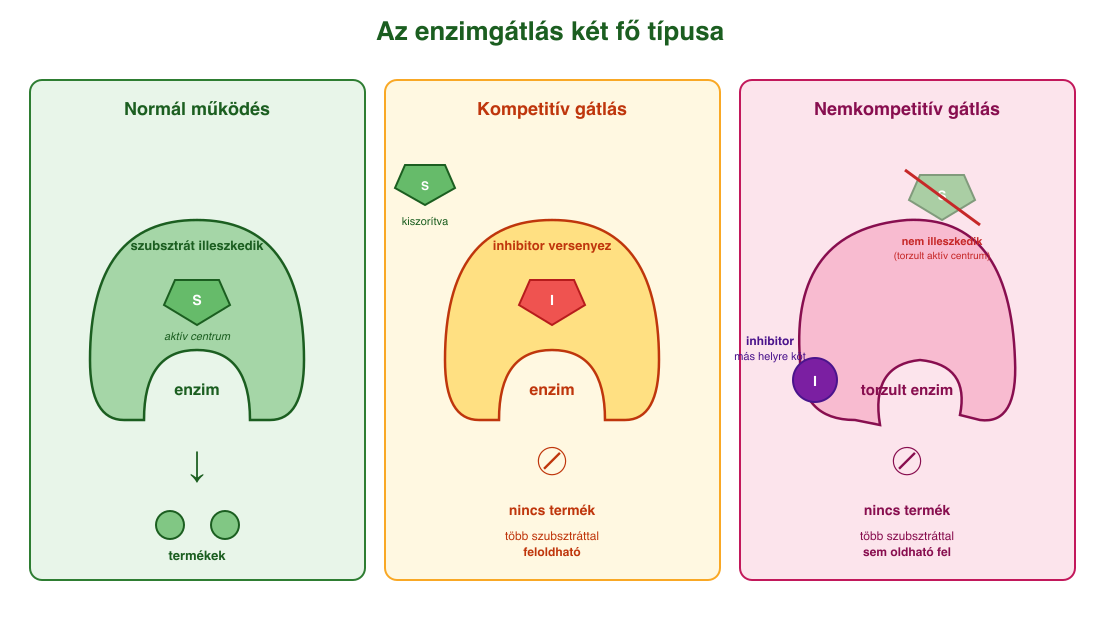
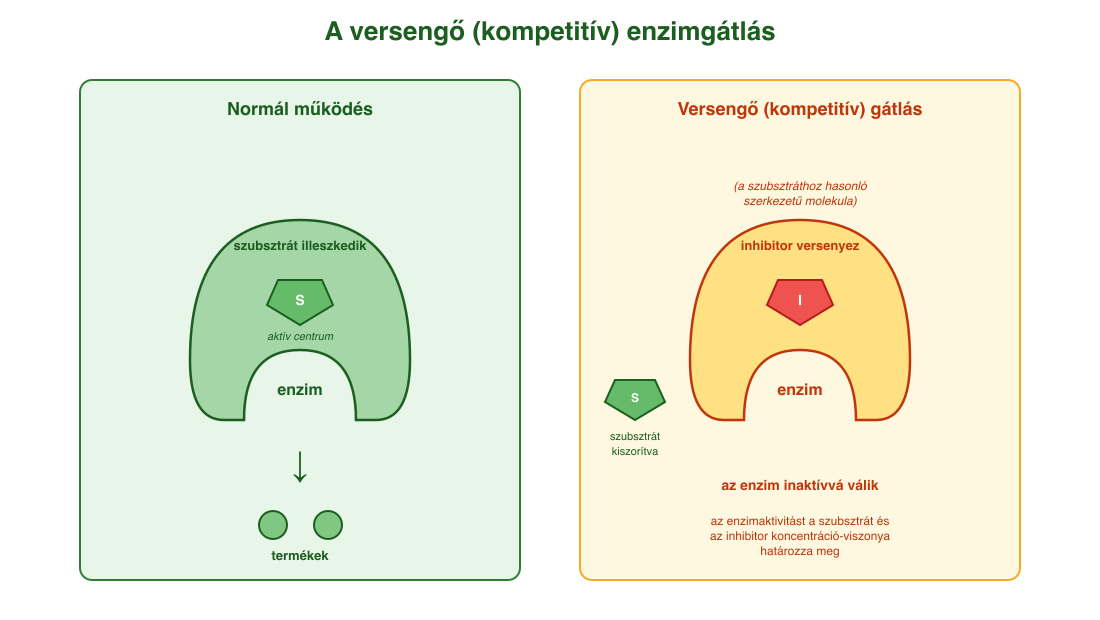
Tankönyvön kívüli kiegészítések eltávolítása a 10-11-12. tételből
10. tétel:
- Fischer, Koshland nevek törölve a modellek mellől
- Amiláz pH ~7 példa törölve
- Negatív visszacsatolás és nemkompetitív gátlás törölve (a tankönyv
  34-37. oldalain csak a versengő/kompetitív gátlást tárgyalja)
- Adenil-cikláz mint enzimpélda törölve (más oldal anyaga)
- 10c ábra átalakítva: csak normál + versengő gátlás panel
- Záró szintézis-bekezdés törölve
- ATP-szintáz leírás visszaállítva tankönyvi szövegre
- Koenzim definíció visszaigazítva tankönyvi szövegre

11. tétel:
- Zsírsavszintézis és fotoszintézis NADPH-példák törölve
- "antiparalel" idegen szó kicserélve "ellentétes lefutású"-ra
- B5-vitamin említés törölve a koenzim-A-nál
- A-T 2 / G-C 3 hidrogénkötés-szám törölve a szövegből és a 11c ábrából
- RNS "egyszálú" megjegyzés és a "69. tételre utalás" törölve
- Záró saját szintézis-bekezdés törölve
- NAD+/NADP+ funkcionális összefoglalás visszaállítva tankönyvi szövegre

12. tétel:
- EPV → EBV elgépelés javítva
- T-segítő sejtek említés törölve a HIV-szakaszban

diff --git a/docs/10-enzimek.md b/docs/10-enzimek.md
@@ -10,8 +10,8 @@ Az enzimek olyan, **elsősorban globuláris fehérjék**, amelyek a biokémiai r
 
 Az enzim felületén egy zsebszerű hely található – ez az **aktív centrum** (kötőzseb) –, ahova az átalakuló anyag, a **szubsztrát** bekötődik. Az enzimek **reakcióspecifikusak** és **fajlagosak**: minden enzim csak meghatározott szubsztrátot ismer fel, mivel a kötőzseb felépítése specifikus, szerkezete kiegészítő (komplementer) a szubsztrátéval.
 
-- **Kulcs-zár modell** (Fischer): a szubsztrát úgy illeszkedik az aktív centrumba, mint a kulcs a zárba. Merev struktúrát feltételez.
-- **Indukált illeszkedés modellje** (Koshland): ma elfogadottabb. A szubsztrát bekötődése **finoman módosítja** az enzim szerkezetét, ezzel növeli a katalitikus aktivitást.
+- **Kulcs-zár modell:** a szubsztrát úgy illeszkedik az aktív centrumba, mint a kulcs a zárba. Merev struktúrát feltételez.
+- **Indukált illeszkedés:** a szubsztrát bekötése **módosítja az enzim szerkezetét**, és ezzel növeli a katalitikus aktivitását is.
 
 Az **enzim–szubsztrát-komplex** átalakulása után termékek keletkeznek, az enzim pedig változatlanul visszanyeri eredeti formáját.
 
@@ -20,17 +20,13 @@ Az **enzim–szubsztrát-komplex** átalakulása után termékek keletkeznek, az
 Az **enzimaktivitás** megmutatja, hogy adott idő alatt adott mennyiségű enzim mennyi szubsztrátot képes átalakítani. Az aktivitás függ:
 
 - **Hőmérséklet:** kis emelkedés gyorsít, de **41 °C felett** a fehérje térszerkezete annyira megváltozik, hogy az enzim képtelen ellátni feladatát – ezért a magas láz életveszélyes. Ez a **denaturáció**, általában visszafordíthatatlan.
-- **pH (kémhatás):** minden enzimnek van **optimális pH**-ja (pepszin pH ~2, tripszin pH ~8, amiláz pH ~7). A pH-eltolódás megváltoztatja a fehérje töltésviszonyait, és felszakítja a polipeptidláncot stabilizáló kötéseket.
-- **Szubsztrátkoncentráció és enzimkoncentráció:** növelésük egy ideig növeli a reakciósebességet, de **telítés** (maximum) után már nem.
+- **pH (kémhatás):** minden enzimnek van **optimális pH**-ja. A pH-eltolódás megváltoztatja a fehérje töltésviszonyait, és felszakítja a polipeptidláncot stabilizáló kötéseket.
+- **Ionkoncentráció.**
 - **Nehézfém-ionok** (Pb²⁺, Hg²⁺) és mechanikai hatások szintén denaturálhatják az enzimet.
 
 ## Enzimgátlás
 
-Az enzimaktivitást csökkentő anyagok az **inhibitorok** (enzimgátlók). Két fő típusuk:
-
-- **Kompetitív (versengő) inhibitor:** a szubsztráthoz hasonló szerkezetű molekula, amely képes az aktív centrumba bekötődni, és **elfoglalja** azt a szubsztrát elől. A gátlás mértékét a szubsztrát- és az inhibitor-koncentráció viszonya határozza meg – **több szubsztráttal feloldható**.
-- **Nemkompetitív inhibitor:** az enzim egy **másik helyére** kötődik, ezzel megváltoztatja az aktív centrum térszerkezetét, így az enzim inaktívvá válik. **Több szubsztráttal nem oldható fel**.
-- **Negatív visszacsatolás:** az anyagcsereút **végterméke** gyakran az első enzimet gátolja – ezzel a sejt önszabályozza saját anyagcsere-folyamatait.
+Az enzimaktivitás mértékét csökkentő anyagokat **inhibitoroknak** (enzimgátlóknak) nevezzük. Az inhibitoroknak többféle típusát ismerjük. Egyik csoportjuk a **versengő (kompetitív) inhibitorok**, melyek a szubsztráthoz hasonló szerkezetük révén képesek bekötődni az enzim aktív centrumába, elfoglalva azt. Amennyiben inhibitor jelen van, az enzim képtelen a szubsztrát megkötésére, inaktívvá válik. Az enzimaktivitás mértékét a szubsztrát-, illetve az inhibitor-koncentráció viszonyai határozzák meg, ezek versengenek az aktív centrumban való megkötődés lehetőségéért. Az enzimek csak átmenetileg vesznek részt a reakcióban, maradandó változást nem szenvednek, újra felhasználhatók.
 
 ## Egyszerű és összetett enzimek; kofaktorok
 
@@ -40,25 +36,22 @@ Az enzimaktivitást csökkentő anyagok az **inhibitorok** (enzimgátlók). Két
 A kofaktorok típusai:
 
 - **Prosztetikus csoport:** szorosan, **kovalensen** kötődik az enzimhez, eltávolítása az enzim biológiai funkciójának megszűnésével jár. Többnyire **fémion** (Cu²⁺, Zn²⁺, Fe²⁺), amely az aktív centrum térszerkezetéhez szükséges.
-- **Koenzim:** lazán, **reverzibilisen** kötődik. Általában **nukleotidszármazék**, sokszor **vitamin** alkotja. Szállítómolekulaként működik: a szubsztrátok között csoportokat (pl. hidrogénatomokat, foszfátot) ad át. Tipikus példák: **NAD⁺**, **NADP⁺** (hidrogénszállítás a sejtanyagcserében), **FAD**, **A koenzim**, **ATP**. A NAD⁺ például a **B₃-vitamin**ból épül fel – ezért okoz a vitaminhiány anyagcserezavart.
+- **Koenzim:** olyan **nem fehérjetermészetű vegyület** – kofaktor –, amely **lazán, reverzibilisen** kötődik az enzimekhez. Többnyire **nukleotidszármazék**. A koenzimek általában **szállítómolekulák**, a szubsztrátok közötti **csoportátviteli reakciókban** szerepelnek, mint pl. a **NAD⁺**, **NADP⁺**, melyek hidrogénatomok átvitelében játszanak szerepet. A koenzimek felépítésében gyakran vesznek részt **vitaminjellegű csoportok**, ezért a vitaminhiány gátolja a koenzimek felépülését. A NAD⁺ felépítésében például a **B₃-vitamin** vesz részt.
 
-A NAD⁺/NADH működése jól szemlélteti a koenzim szerepét: az 1. enzim a szubsztrátról hidrogént vesz el és átadja a koenzim oxidált formájának (NAD⁺ → NADH), majd a NADH egy másik enzim szubsztrátjához viszi és átadja a hidrogént (NADH → NAD⁺). **Két különböző enzim, két különböző szubsztrát, egyetlen koenzim közvetít közöttük.**
+A **NAD⁺ mint hidrogénszállító koenzim** működése két lépésben zajlik: az 1. enzim a szubsztráttal (elektron-leadó) és a koenzim **oxidált formájával (NAD⁺)** reagál, eközben a koenzim redukálódik (**NADH** keletkezik). Ezután a NADH a 2. enzimhez kötődve **elektronfelvevő szubsztrátot** redukál, így a koenzim **újra NAD⁺-szá oxidálódik**. A két reakcióban két különböző enzim vesz részt.
 
 ## Enzimek példái az anyagcserében
 
 - **Na⁺-K⁺ pumpa (ATP-áz):** az állati sejtek legfontosabb ionpumpája. 1 ATP hidrolízisével **3 Na⁺-t pumpál ki** és **2 K⁺-t visz be** a sejtbe; energiaigényes, mert az ionmozgások a koncentrációgradiensekkel ellentétesek.
 - **Miozin:** izomszövetek ATP-bontó enzime. A felszabaduló energia a fehérjefonalak elcsúszását, vagyis az **izom-összehúzódást** hajtja.
-- **ATP-szintáz:** a mitokondrium belső membránjában a protongradiens energiáját **ATP előállítására** fordítja (kemiozmózis).
-- **Adenil-cikláz:** a jelátvitelben az ATP-ből **cAMP**-t (másodlagos hírvivőt) állít elő.
+- **ATP-szintázok:** olyan enzimek, amelyek a különféle folyamatokban felszabaduló energiát képesek ATP előállítására fordítani. Az ATP a lebontó anyagcsere során keletkezik, pl. a glikolízisben, illetve a terminális oxidációban. A terminális oxidáció egy elektronszállító rendszer működésével valósul meg, mely a mitokondriumok belső membránjában található.
 
 ## Enzimhiányos emberi betegségek
 
 Sok betegség hátterében egy adott **enzim hiánya vagy elégtelen működése** áll:
 
-- **Tejcukor-érzékenység (laktózintolerancia):** a **laktáz** enzim hiányában a laktóz a vékonybélben nem bomlik glükózra és galaktózra, így nem szívódik fel. A vastagbélbe kerülve a baktériumok erjedési termékei (H₂, CO₂, szerves savak) puffadást, hasmenést okoznak. Kezelése: laktózmentes étrend.
+- **Tejcukor-érzékenység (laktózintolerancia):** a **laktáz** enzim hiányában a laktóz a vékonybélben nem tud monoszacharidokká bomlani, így nem szívódik fel, és a vastagbélbe kerülve különféle problémákat okoz. A vastagbélbe kerülő laktóz erősen növeli a béltartalom ozmotikus koncentrációját, szívóerejét, miáltal csökkenti a vízfelszívódás mértékét, továbbá a vastagbélben zajló bakteriális erjedés következtében különféle szerves savak és gázok (H₂, CO₂) keletkeznek, melyek erőteljesen fokozzák a bélperisztaltikát. Mindezek eredményeképpen a széklet jelentősen hígul, ami a hasmenés elsődleges oka. A tünetek mértékét a laktózbevitel csökkentésével (pl. laktózmentes tejtermékek fogyasztásával) lehet mérsékelni.
 - **Fenilketonúria (PKU):** autoszómás, recesszíven öröklődő betegség. A **fenilalanin-hidroxiláz** enzim hiánya miatt a fenilalanin nem alakul tirozinná, hanem **mérgező anyagcseretermékek** halmozódnak fel a vérben → idegrendszeri károsodás, értelmi fogyatékosság. Kezelése a fenilalaninszegény diéta.
-
-Az enzimek tehát az élet alapvető katalizátorai: minden sejtben több ezer enzim összehangolt működése biztosítja, hogy az anyagcsere a testhőmérsékleten, szabályozottan és gyorsan menjen végbe.
 
 ---
 
@@ -72,9 +65,9 @@ Az enzimek tehát az élet alapvető katalizátorai: minden sejtben több ezer e
 
 *A NAD⁺ mint hidrogénszállító koenzim. 1. reakció: az 1. enzim a szubsztrátról hidrogént vesz el, az oxidált koenzim (NAD⁺) redukálódik NADH-vá. 2. reakció: a NADH a 2. enzimhez kötődve átadja a hidrogént egy másik szubsztrátnak, és visszaalakul NAD⁺-szá. Két különböző enzim, egy közös koenzim közvetít közöttük.*
 
-![Kompetitív és nemkompetitív enzimgátlás](abrak/10c-inhibitorok.png)
+![A versengő (kompetitív) enzimgátlás](abrak/10c-inhibitorok.png)
 
-*Bal oldalon a normál enzim-szubsztrát kapcsolódás. Középen a kompetitív gátlás: az inhibitor a szubsztráthoz hasonló szerkezetű, az aktív centrumért versenyez vele – több szubsztráttal feloldható. Jobb oldalon a nemkompetitív gátlás: az inhibitor az enzim más helyére kötődik, megváltoztatja a térszerkezetet, az aktív centrum elveszti a szubsztráthoz való illeszkedést – több szubsztráttal sem oldható fel.*
+*Bal oldalon a normál enzim-szubsztrát kapcsolódás: a szubsztrát illeszkedik az aktív centrumba, és termékek keletkeznek. Jobb oldalon a versengő (kompetitív) gátlás: az inhibitor a szubsztráthoz hasonló szerkezetű, ezért képes bekötődni az aktív centrumba, és elfoglalja azt; a szubsztrát kiszorul, az enzim inaktívvá válik. Az enzimaktivitást a szubsztrát- és az inhibitor-koncentráció viszonya határozza meg.*
 
 ---
 

diff --git a/docs/11-nukleotidok.md b/docs/11-nukleotidok.md
@@ -16,7 +16,7 @@ A bázis gyűrűatomjait számokkal (1, 2, 3...), a cukoregység szénatomjait p
 
 ## Egyszerű nukleotidok – koenzimek
 
-Egy vagy két nukleotidegységből és egyéb csoportokból felépülő molekulák. Általában **koenzimek**: enzimekhez **lazán, reverzibilisen** kötődnek, csoportokat (foszfátot, hidrogént, acetilt) szállítanak. Fő képviselők: **ATP, NAD⁺, NADP⁺, FAD, koenzim-A**.
+Egy vagy két nukleotidegységből (foszforsav, 5 szénatomos cukor, nitrogéntartalmú bázis) és egyéb csoportokból felépülő molekulák a **nukleotidok**. Általában **koenzimek**, az enzimek működéséhez szükséges **nem kovalensen kapcsolódó molekulák**. Képviselőik: **ATP, NAD⁺, NADP⁺, koenzim-A**.
 
 ### ATP (adenozin-trifoszfát)
 
@@ -36,34 +36,30 @@ Két nukleotidegységből álló molekulák, amelyek **két foszfátcsoportnál*
 **Funkciójuk: hidrogén- és elektronátvivő koenzimek.**
 
 - A szerves vegyületek oxidációja során leadott **2 elektron + 1 H⁺** felvételére (redukcióra) alkalmasak: **NAD⁺ + 2H⁺ + 2e⁻ ⇌ NADH + H⁺**.
-- **NAD⁺ → NADH**: oxidálószer a **lebontó** folyamatokhoz (pl. biológiai oxidáció).
-- **NADP⁺ → NADPH**: redukálószer a **felépítő** folyamatokhoz (pl. zsírsavszintézis, koleszterinszintézis, fotoszintézis sötét szakasza).
-- A sejtben a NAD⁺/NADH arány magas (sok oxidált forma) – mert oxidáláshoz kell. A NADP⁺/NADPH arány alacsony (sok redukált forma) – mert redukáláshoz kell.
+- A NAD⁺ **főleg oxidálószerként** szükséges a sejtnek, ezért sok NAD⁺ és kevés NADH kell hogy legyen a sejtben.
+- A NADP⁺ ezzel szemben **redukálószerként** szükséges az enzimeknek, ezért sok NADPH és kevés NADP⁺ kell hogy legyen a sejtben. Példa a NADPH felhasználására állati szervezetben: a koleszterin képződése.
 
 ### Koenzim-A (koA)
 
-Egyszerű nukleotid: **adenintartalmú nukleotid** + szerves molekularész (pantoténsav-származék, B₅-vitamin). A molekula végén egy **szulfhidrilcsoport (–SH)** található, ehhez kötődik az **acetilcsoport (CH₃CO–)**. A kötés **nagy energiájú**, felbomlása energetikailag kedvező. A koenzim-A a **cukrok lebontásához** és a **zsírsavak fel- és lebontásához** szükséges (acetil-csoport „építőkövek” szállítása).
+A koenzim-A a biokémiai folyamatokhoz két szénatomos „építőköveket”, **acetilcsoportokat** szállít. A molekula egy adenintartalmú nukleotidból és ennek terminális foszfátcsoportjához kapcsolódó szerves molekularészből (pantoténsav-származék) felépülő **egyszerű nukleotid**. A molekula végén található **szulfhidrilcsoporthoz (–SH)** kondenzációval kapcsolódik az acetilcsoport. A koenzim-A a **cukrok lebontásához** és a **zsírsavak felépítéséhez és lebontásához** szükséges. Az acetilcsoport és a kénatom közötti kötés **nagy energiájú**, felbomlása energetikailag kedvező.
 
 ## Nukleinsavak
 
-A nukleinsavak nukleotidegységek **foszfátcsoportjaikon keresztül** összekapcsolódó polimerei. Egy nukleotid foszfátcsoportja egy **másik ribóz vagy dezoxiribóz 3' szénatomjához** kapcsolódik **foszfodiészter-kötéssel**, így hosszú lánc jön létre.
+A **nukleinsavak**ban a nukleotidegységek (nukleozid-monofoszfátok) **foszfátcsoportjaikon keresztül** kapcsolódnak egymáshoz. Egy nukleotid foszfátcsoportja egy **másik ribóz vagy dezoxiribóz 3' szénatomjához** kapcsolódik **foszfodiészter-kötéssel**.
 
 ### DNS (dezoxiribonukleinsav)
 
 - Cukoregység: **dezoxiribóz**.
 - Bázisok: **A, T, G, C** (uracil nincs).
 - A láncgerincet a cukor- és foszfátegységek adják (egyforma), a változó részt a hozzájuk kapcsolódó négy különböző bázis. A **bázisok sorrendje hordozza a genetikai információt**.
-- **Kettős hélix**: két, egymással ellentétes lefutású szál csavarodik egymás köré (jobbmenetes spirál). A két szál **komplementere egymásnak**: **A–T** és **G–C** bázispárok között **hidrogénkötések** alakulnak ki. Mivel egy purinnal mindig pirimidin áll szemben, a két szál távolsága állandó.
-- Méretek: átmérő ≈ **2 nm**, egy fordulat ≈ 3,4 nm és 10 bázispárt tartalmaz (egy bázispár ≈ 0,34 nm).
-- **5'- és 3'-vég**: a szabad foszfátot hordozó vég az 5'-vég, a szabad OH-csoportot tartalmazó az 3'-vég. A két szál egymással **antiparalel**.
+- **Kettős hélix:** a DNS-szálat egy vele ellentétes lefutású szál kíséri, ezek egymás körül felcsavarodva kettős hélixet alkotnak. A két szál egymás **komplementere (kiegészítője)**: csak bizonyos bázispárok között tudnak hidrogénkötések kialakulni. Az **adeninnel szemben timin**, a **guaninnal szemben citozin** található a hélixben. Mivel a purin bázissal szemben mindig pirimidin bázis helyezkedik el, a két szál távolsága állandó.
+- A két szálat a **bázisok között kialakuló hidrogénkötések** kapcsolják egymáshoz. A hélix jobbmenetes, **2 nm átmérőjű**. Egy fordulat **3,4 nm hosszúságú és 10 bázispár** alkotja (egy bázispár 0,34 nm hosszúságú).
+- **5'- és 3'-vég:** egy szál esetében a 3' szénatomhoz tartozó szabad hidroxilcsoporttal rendelkező véget **3'-végnek**, a szabad foszfátcsoporttal rendelkező véget pedig **5'-végnek** nevezzük.
 
 ### RNS (ribonukleinsav)
 
 - Cukoregység: **ribóz** (a 2' szénen OH).
 - Bázisok: **A, U, G, C** (timin helyett **uracil**).
-- **Egyszálú** (a fehérjeszintézis részleteit a 69. tétel tárgyalja).
-
-A DNS őrzi a genetikai információt, az RNS-ek a fehérjeszintézis során közvetítik és kivitelezik ezt az információt. Az egyszerű nukleotidok (ATP, NAD⁺, koA) ezzel szemben **energetikai és csoportszállító feladatokat** látnak el – a nukleotidok tehát egyaránt **információhordozók és anyagcsere-közvetítők**: kétféle, de szervesen összefüggő szerep ugyanazokból az építőkövekből.
 
 ---
 
@@ -79,7 +75,7 @@ A DNS őrzi a genetikai információt, az RNS-ek a fehérjeszintézis során kö
 
 ![A DNS kettős hélix és a bázispárosodás](abrak/11c-dns-helix.png)
 
-*A DNS kettős spirál szerkezete. A két szál antiparalel: az egyik 5' → 3', a másik 3' → 5' irányú; a láncgerincet a cukor (kék) – foszfát (sárga) egységek adják. A két szál között hidrogénkötések kapcsolják össze a komplementer bázispárokat: A–T két, G–C három hidrogénkötéssel. Mivel purin (A, G) mindig pirimidinnel (T, C) áll szemben, a szálak távolsága állandó, ≈ 2 nm. Egy teljes fordulat 3,4 nm hosszú és 10 bázispárt tartalmaz.*
+*A DNS kettős spirál szerkezete. A két szál egymással ellentétes lefutású: az egyik 5' → 3', a másik 3' → 5' irányú; a láncgerincet a cukor (kék) – foszfát (sárga) egységek adják. A két szál között hidrogénkötések kapcsolják össze a komplementer bázispárokat: adeninnel szemben mindig timin, guaninnal szemben mindig citozin található. Mivel purin (A, G) mindig pirimidinnel (T, C) áll szemben, a szálak távolsága állandó, ≈ 2 nm. Egy teljes fordulat 3,4 nm hosszú és 10 bázispárt tartalmaz.*
 
 ---
 

diff --git a/docs/12-virusok.md b/docs/12-virusok.md
@@ -34,11 +34,11 @@ Az embert és állatokat fertőző vírusok szaporodási ciklusa részben hasonl
 
 A **HIV** (Human Immunodeficiency Virus) **retrovírus**: RNS-genomot tartalmaz, **peplonja van**, és a szaporodása során **megfordul a genetikai információ áramlásának szokásos iránya** (DNS → RNS helyett **RNS → DNS**). A vírus magával hozza a **reverz transzkriptáz** enzimet, amely a vírus RNS-éről DNS-t ír át, majd ez a DNS beépül a gazdasejt DNS-ébe. Innen a sejt saját RNS-polimeráza írja át, vírusfehérjék készülnek, és új virionok bimbóznak ki a sejthártyával együtt.
 
-A HIV az **immunrendszer sejtjeit (T-segítő sejteket) támadja meg**, ezzel **szerzett immunhiányos** állapotot (AIDS-et) okoz, amelyben a szervezet más kórokozókkal szemben is védtelenné válik.
+A HIV az **immunrendszer sejtjeit támadja meg**, ezzel **szerzett immunhiányos** állapotot (AIDS-et) okoz, amelyben a szervezet más kórokozókkal szemben is védtelenné válik.
 
 ## A vírus okozta sejtkárosodás és védekezés
 
-A közvetlen károsodás okai: a sejt energiájának felhasználása, a sejt saját makromolekuláris szintézisének leállása, a vírus-genom beépüléséből származó mutációk, a gyulladásos válasz (citokinvihar). Egyes vírusok (EPV, HPV) **daganatkeltőek** lehetnek (onkogén vírusok).
+A közvetlen károsodás okai: a sejt energiájának felhasználása, a sejt saját makromolekuláris szintézisének leállása, a vírus-genom beépüléséből származó mutációk, a gyulladásos válasz (citokinvihar). Egyes vírusok (EBV, HPV) **daganatkeltőek** lehetnek (onkogén vírusok).
 
 A sejt egyik természetes védekezése az **RNS-interferencia**: ha kétszálú RNS jelenik meg (ami normális esetben nincs a sejtben), egy enzim rövid darabokra bontja, és ezekkel azonosítja és lebontja a hasonló szekvenciájú vírus-RNS-eket. Ez nemcsak vírusvédekezés, hanem a saját génkifejeződés szabályozója is – a gyógyítás eszközeként is használják (génceddesítés, miRNS, siRNS).
 
